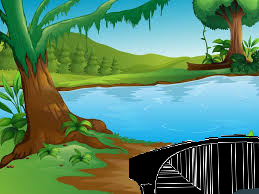
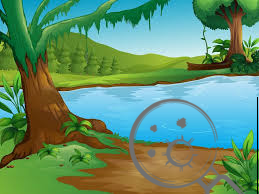
start screen works

Changed region(s): [[0.4942, 0.4948, 1.0, 1.0]]

diff --git a/startScreen.php b/startScreen.php
@@ -1,12 +1,66 @@
 <?php
 require_once 'login.php';
 $conn = new mysqli($hn, $un, $pw, $db);
+if ($conn->connect_error) die($conn->connect_error);
 
 require_once('authenticate.php');
 
 $_SESSION["tmpid"]="";
 $tmp= $_SESSION["user"];
 $p= $_SESSION["pass"];
+
+//trending
+	$query = "select * from transaction group by source order by count(*) desc;";
+	$result = $conn->query($query);
+	if (!$result) echo "Select failed: $query<br>" . $conn->error . "<br><br>";
+		while ($row = $result->fetch_assoc()) {
+			
+		$q= $row['source'];
+		$c[]=$row['category'];
+		$newq[]=substr_replace($q, 'new.png',-4);
+	}
+	//print_r($newq);
+	foreach ($newq as $k => $v) {
+	$query ="INSERT INTO trending VALUES(NULL,'$newq[$k]','$c[$k]')";
+	$result = $conn->query($query);
+	if (!$result) echo "INSERT failed: $query<br>" . $conn->error . "<br><br>";
+	
+	$query = "SELECT * FROM trending";
+		$result = $conn->query($query);
+		if (!$result) die ("Database access failed: " . $conn->error);
+		$rows = $result->num_rows;
+		
+		for ($j = 0 ; $j < $rows ; ++$j)
+		{
+			
+			$result->data_seek($j);
+			$row = $result->fetch_array(MYSQLI_NUM);
+			//$g=$row[3];
+			//echo '<img src="'.$g.'" alt="HTML5 Icon" style="width:128px;height:128px">';
+echo <<<_END
+<div class=column style=float:left;padding:10 10 10 10>
+<pre>
+source: $row[1]
+category: $row[2]
+<img src= $row[1] alt="HTML5 Icon" style="width:128px;height:128px">
+
+</pre>
+<form action="startScreen.php" method="post">
+<input type="hidden" name="choose" value="yes">
+<input type="hidden" name="source" value="$row[1]">
+<input type="hidden" name="category" value="$row[2]">
+<input type="submit" value="CHOOSE RECORD">
+</form>
+</div>
+
+_END;
+
+			}
+				$query = "delete  FROM trending";
+		$result = $conn->query($query);
+		if (!$result) die ("Database access failed: " . $conn->error);	
+	}
+
 
 $query = "SELECT id from customer where userName='$tmp' and password='$p'";
 	$result = $conn->query($query);
@@ -15,6 +69,8 @@ $query = "SELECT id from customer where userName='$tmp' and password='$p'";
 			$_SESSION["tmpid"]=$row['id'];
 			}
 	if (!$result) echo "SELECT failed: $query<br>" . $conn->error . "<br><br>";
+	
+	
 
 if (isset($_POST['search']) && isset($_POST['enter']))
 {
@@ -70,66 +126,55 @@ if (isset($_POST['search']) && isset($_POST['enter']))
 	}
 }
 	
-	
-	if (isset($_POST['trending']))
+//choose
+	if (isset($_POST['choose']) && isset($_POST['source']) && isset($_POST['category']))
 {
-	$query = "select * from transaction group by source order by count(*) desc;";
+	$ca = get_post($conn, 'category');
+	echo $ca;
+	$source = get_post($conn, 'source');
+	echo $source;
+	$size=$_FILES['source']['size'];
+	//get size and convert into kb or mb
+ $size = $_FILES['source']['size'];
+	//(size info from php file sizes)
+        if ($size >= 1048576)
+        {
+            $size = number_format($size / 1048576, 2) . ' MB';
+        }
+        elseif ($size >= 1024)
+        {
+            $size = number_format($size / 1024, 2) . ' KB';
+        }
+        elseif ($size > 1)
+        {
+            $size = $size . ' bytes';
+        }
+        elseif ($bytes == 1)
+        {
+            $size = $size . ' byte';
+        }
+        else
+        {
+            $size = '0 bytes';
+        }
+	$tmpName = $_FILES['source']['tmp_name'];        
+list($width, $height, $type, $attr) = getimagesize($tmpName);
+$res= "$width" . 'x' . "$height";
+	$query = "SELECT * FROM trending WHERE source='$source'";
 	$result = $conn->query($query);
-	if (!$result) echo "Select failed: $query<br>" . $conn->error . "<br><br>";
-	$rows = $result->num_rows;
-		echo "Items bought: ";
-		while ($row = $result->fetch_assoc()) {
-			
-		$q= $row['orderNumber'];
-		$t=$row['customerID'];
-		$u=$row['imageID'];
-		$v=$row['transactionDate'];
-	}
-
 	
-		
-		for ($j = 0 ; $j < $rows ; ++$j)
-		{
-			$result->data_seek($j);
-			$row = $result->fetch_array(MYSQLI_NUM);
-echo <<<_END
-<div class=column style=float:left;padding:10 10 10 10>
-<pre>
-source: $row[3]
-<img src= $row[3] alt="HTML5 Icon" style="width:128px;height:128px">
+	while ($row = $result->fetch_assoc()) {
+		$t=$row['source'];
+		$v=$row['category'];
+	}
+	 $query ="INSERT INTO cart VALUES(NULL,'$res','$size','$t','$v')";
+		$result = $conn->query($query);
+		if (!$result) echo "INSERT failed: $query<br>" . $conn->error . "<br><br>";
 
-</pre>
-<form action="itemsBought.php" method="post">
-<input type="hidden" name="choose" value="yes">
-<input type="hidden" name="source" value="$row[3]">
-<input type="submit" value="CHOOSE RECORD">
-</form>
-</div>
-_END;
-			}
-			
-			$result->close();
-			$conn->close();
-			function get_post($conn, $var){return $conn->real_escape_string($_POST[$var]);
-			}	
 	}
 	
+
 	
-
-echo <<<_END
-<form action="" method="post">
-<input type="submit" name="trending" value="TRENDING">
-
-</form>
-_END;
-
-//log out
-echo <<<_END
-<form action="loginPage.php" method="post">
-<input type="hidden" name="choose" value="yes">
-<input type="submit" value="LOG OUT">
-</form>
-_END;
 ?>
 
 <!DOCTYPE html>

diff --git a/ImageTest.php b/ImageTest.php
@@ -66,7 +66,6 @@ if(isset($_POST['image_upload']) && isset($_POST['category'])){
  $filepath= "images/".$name;
  //echo $name;
  
- 
  // the target directory
  $target_dir = "upload/";
  $target_file = $target_dir . basename($_FILES["file"]["name"]);
@@ -113,9 +112,8 @@ $newheight = $height/2;
 	$category = get_post($conn, 'category');
 	
 	//water mark
-	
 	$image= imagecreatefromjpeg($name);
-	$foreground = imagecreatefrompng("watermark.png");
+	$foreground = imagecreatefrompng("watermark2.png");
 	$tmpnewname=substr($name, 0, -4);
 	$newname=$tmpnewname."new.png";
 	//echo $newname;
@@ -127,7 +125,7 @@ $newheight = $height/2;
 	
 	
 	//copy images by setting coordinates width and height 
-	imagecopy($image, $foreground, $width/2, $height/2, 0,0 , $width,$height);  //from php website
+	imagecopy($image, $foreground, $newwidth, $newheight, 0,0 , $newwidth,$newheight);  //from php website
 	imagepng($image,$newname);
  
   // Insert record

diff --git a/cart.php b/cart.php
@@ -48,6 +48,7 @@ if (isset($_POST['delete']) && isset($_POST['id']) && isset($_POST['res']) && is
 		print_r ($s);
 		$ts=$row['source'];
 			$newts[]=substr_replace($ts, '.jpg',-7);
+		$tc[]=$row['category'];
 					
 		
 		
@@ -63,11 +64,10 @@ if (isset($_POST['delete']) && isset($_POST['id']) && isset($_POST['res']) && is
 	
 	
 		foreach ($s as $k => $v) {
-			//foreach($newts as $b => $bit){
-    $query ="INSERT INTO transaction VALUES(NULL,'$ti','$s[$k]','$newts[$k]',CURDATE())";
+    $query ="INSERT INTO transaction VALUES(NULL,'$ti','$s[$k]','$newts[$k]','$tc[$k]',CURDATE())";
 	$result = $conn->query($query);
 	if (!$result) echo "INSERT failed: $query<br>" . $conn->error . "<br><br>";
-			//}
+			
 }
 
 	
